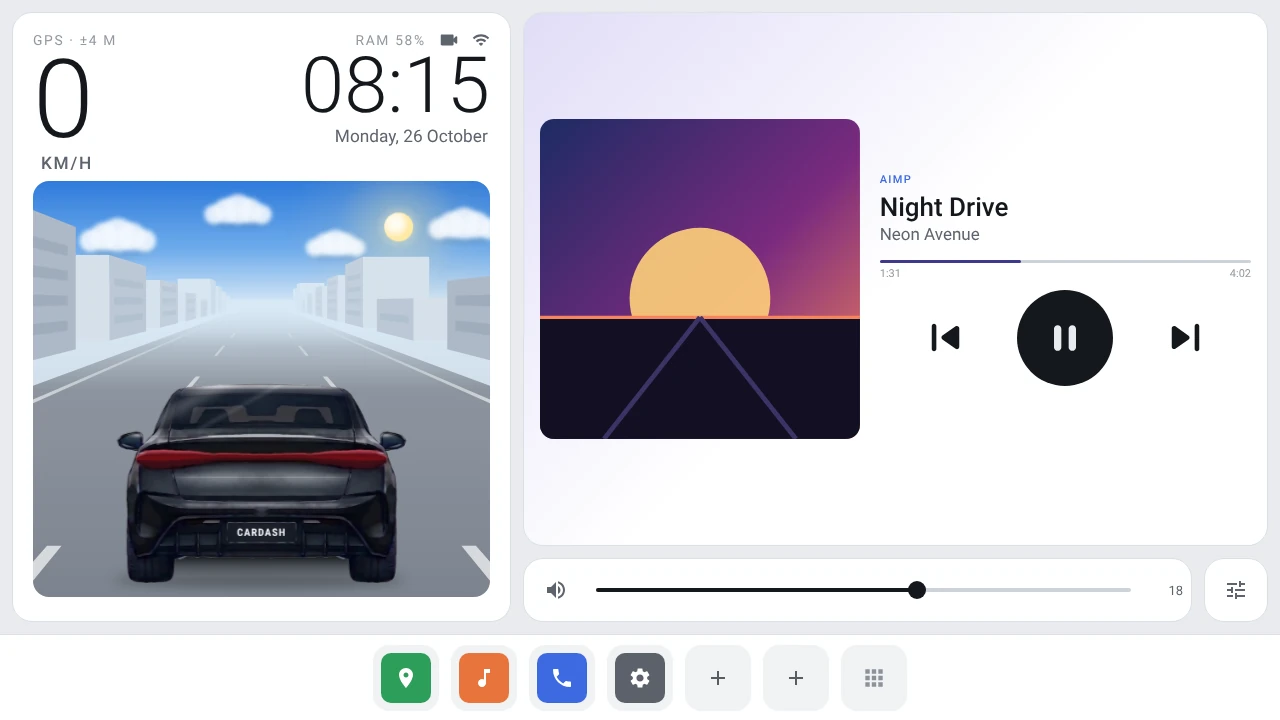
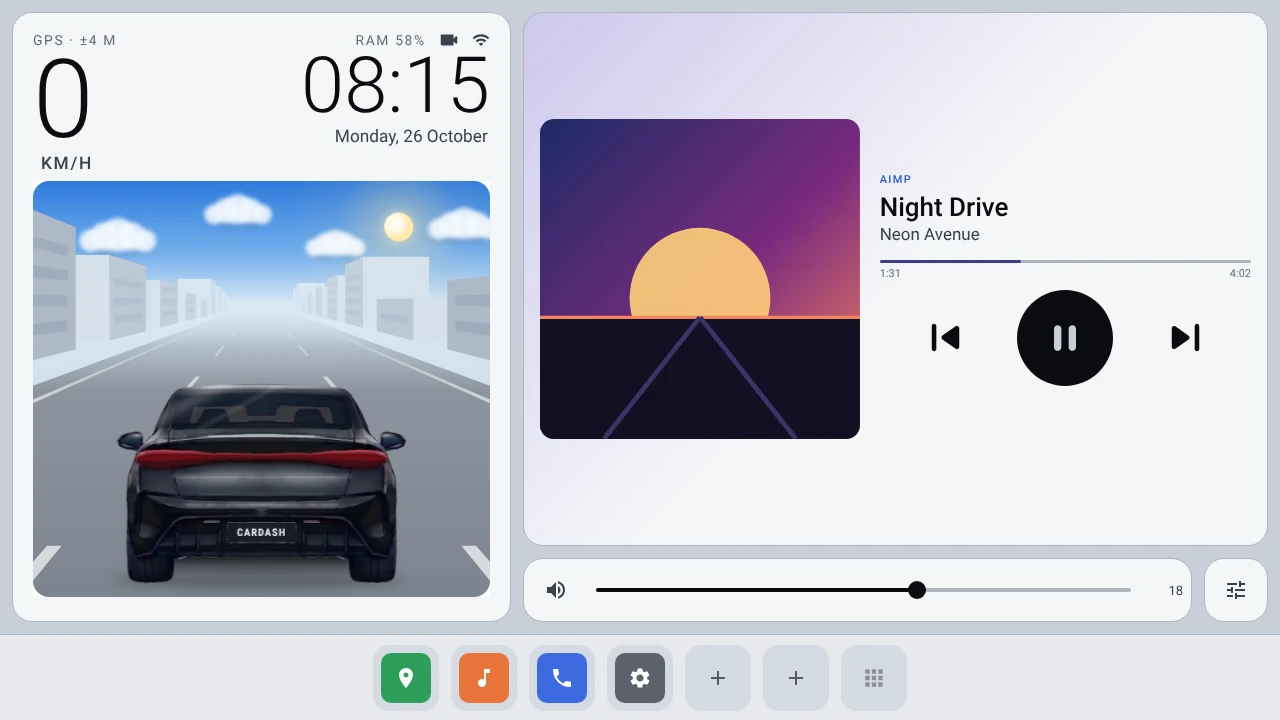
v3.1: higher-contrast themes, Back/Recents in All apps, Close on menus
- Look: dark = true black, lifted cards, visible lines, brighter text/accent;
  light = grey background, off-white cards, darker text, stronger lines,
  deeper accent. Screensaver ticks/date slightly brighter. Docs screenshots
  re-rendered.
- Dock: Back + Recent apps hidden on the dashboard (space kept, nothing
  shifts); All apps now ends above the dock, the keys fade in and the grid key
  becomes a close key. Dock launches and the moon key close All apps.
- List menus get a Close button (head units without a system Back key).

Claude-Session: https://claude.ai/code/session_017nPdq64s7p8MsRNM6c6iGM

Changed region(s): [[0.0, 0.0, 1.0, 1.0], [0.6875, 0.3056, 0.75, 0.3361], [0.8125, 0.4583, 0.8438, 0.4889]]

diff --git a/app/src/main/java/xyz/ox1de/cardash/MainActivity.java b/app/src/main/java/xyz/ox1de/cardash/MainActivity.java
@@ -512,7 +512,7 @@ public class MainActivity extends Activity {
         }
         if (mainView.getPaddingTop() != t || mainView.getPaddingBottom() != b || mainView.getPaddingLeft() != l || mainView.getPaddingRight() != r) {
             mainView.setPadding(l, t, r, b);
-            drawer.setPadding(l, t, r, b);
+            drawer.setPadding(l, t, r, 0);   // it ends above the dock, which already clears the nav bar
         }
     }
 
@@ -1399,7 +1399,7 @@ public class MainActivity extends Activity {
         sp.edit().putString("mru", TextUtils.join(",", l)).apply();
     }
 
-    /** Back on the home screen: close the drawer, else go back to the app you were last in. */
+    /** Back (on the dock while All apps is open): close it, back to the dashboard. */
     void navBack() {
         if (drawerOpen) { hideDrawer(); return; }
         java.util.List<String> r = recents();
@@ -1588,11 +1588,16 @@ public class MainActivity extends Activity {
 
     void showDrawer() {
         if (!appsLoaded) loadApps(null);
+        // the drawer stops above the dock: the dock (Back, Recent apps, close) stays on screen
+        FrameLayout.LayoutParams dl = (FrameLayout.LayoutParams) drawer.getLayoutParams();
+        int below = dock.getHeight() + mainView.getPaddingBottom();
+        if (dl.bottomMargin != below) { dl.bottomMargin = below; drawer.setLayoutParams(dl); }
         drawerOpen = true;
+        dockForDrawer(true);
         drawer.animate().cancel();
         drawer.setAlpha(0f);
-        drawer.setScaleX(1.04f);
-        drawer.setScaleY(1.04f);
+        drawer.setScaleX(1.02f);
+        drawer.setScaleY(1.02f);
         drawer.setVisibility(View.VISIBLE);
         drive.setActive(false); // hidden behind the drawer: don't animate it
         // settles in from slightly zoomed: one GPU layer, composited, nothing re-drawn per frame
@@ -1603,6 +1608,7 @@ public class MainActivity extends Activity {
     void hideDrawer() {
         if (!drawerOpen) return;
         drawerOpen = false;
+        dockForDrawer(false);
         drawer.animate().cancel();
         drive.setActive(resumed && !saverOn);
         if (resumed) {
@@ -1686,6 +1692,25 @@ public class MainActivity extends Activity {
     }
 
     int dockBtn;   // button size for the current dock width
+    View keyBack, keyRecents;
+    ImageButton allBtn;
+
+    /** All apps open: Back + Recent apps fade in on the dock and the apps key becomes a close key. */
+    void dockForDrawer(boolean open) {
+        if (allBtn != null) allBtn.setImageResource(open ? R.drawable.ic_close : R.drawable.ic_apps);
+        for (View k : new View[]{keyBack, keyRecents}) {
+            if (k == null) continue;
+            k.animate().cancel();
+            if (open) {
+                k.setVisibility(View.VISIBLE);
+                k.setAlpha(0f);
+                k.animate().alpha(1f).setStartDelay(60).setDuration(180).setInterpolator(Anim.OUT).withLayer().start();
+            } else {
+                k.animate().alpha(0f).setStartDelay(0).setDuration(120).withLayer()
+                        .withEndAction(() -> { if (!drawerOpen) k.setVisibility(View.INVISIBLE); }).start();
+            }
+        }
+    }
 
     void buildDock() {
         ensureDockDefaults();
@@ -1695,8 +1720,14 @@ public class MainActivity extends Activity {
         int avail = (dock.getWidth() > 0 ? dock.getWidth() : getResources().getDisplayMetrics().widthPixels)
                 - dock.getPaddingLeft() - dock.getPaddingRight() - dp(24);
         dockBtn = Math.max(dp(44), Math.min(dp(66), avail / (SLOTS + 5) - dp(14)));
-        dock.addView(sysKey(R.drawable.ic_nav_back, "Back to the last app", v -> navBack(), v -> { showKeysPanel(); return true; }));
-        dock.addView(sysKey(R.drawable.ic_nav_recents, "Recent apps", v -> showRecents(), null));
+        // Back + Recent apps: shown only while All apps is open (the dock stays visible under it);
+        // on the dashboard they keep their space but are hidden, so nothing shifts when they appear
+        keyBack = sysKey(R.drawable.ic_nav_back, "Back", v -> navBack(), v -> { showKeysPanel(); return true; });
+        keyRecents = sysKey(R.drawable.ic_nav_recents, "Recent apps", v -> showRecents(), null);
+        for (View k : new View[]{keyBack, keyRecents}) {
+            k.setVisibility(drawerOpen ? View.VISIBLE : View.INVISIBLE);
+            dock.addView(k);
+        }
         dock.addView(dockGap());
         for (int i = 0; i < SLOTS; i++) {
             final int slot = i;
@@ -1712,19 +1743,21 @@ public class MainActivity extends Activity {
             }
             b.setOnClickListener(v -> {
                 if (pkg == null || (appsLoaded && !byPkg.containsKey(pkg))) pickDock(slot);
-                else launch(pkg);
+                else { if (drawerOpen) hideDrawer(); launch(pkg); }
             });
             b.setOnLongClickListener(v -> { pickDock(slot); return true; });
             dock.addView(b);
         }
         ImageButton all = dockButton();
-        all.setImageResource(R.drawable.ic_apps);
+        all.setImageResource(drawerOpen ? R.drawable.ic_close : R.drawable.ic_apps);
         all.setColorFilter(look.text2);
         all.setPadding(dp(19), dp(19), dp(19), dp(19));
-        all.setOnClickListener(v -> showDrawer());
+        all.setContentDescription("All apps");
+        all.setOnClickListener(v -> { if (drawerOpen) hideDrawer(); else showDrawer(); });
+        allBtn = all;
         dock.addView(all);
         dock.addView(dockGap());
-        dock.addView(sysKey(R.drawable.ic_moon, "Screensaver now", v -> showSaver(), null));
+        dock.addView(sysKey(R.drawable.ic_moon, "Screensaver now", v -> { if (drawerOpen) hideDrawer(); showSaver(); }, null));
         dock.addView(sysKey(R.drawable.ic_more, "Shortcuts: notifications, quick settings, screenshot…", v -> showKeysPanel(), null));
     }
 
@@ -1888,6 +1921,7 @@ public class MainActivity extends Activity {
         new AlertDialog.Builder(this, dlg())
                 .setTitle("CarDash")
                 .setItems(labels.toArray(new String[0]), (d, w) -> acts.get(w).run())
+                .setNegativeButton("Close", null)
                 .show();
     }
 
@@ -2039,6 +2073,7 @@ public class MainActivity extends Activity {
         new AlertDialog.Builder(this, dlg())
                 .setTitle("Badge on the back of the car  ·  shows in the \"behind the car\" view")
                 .setItems(labels.toArray(new String[0]), (d, w) -> acts.get(w).run())
+                .setNegativeButton("Close", null)
                 .show();
     }
 
@@ -2802,6 +2837,7 @@ public class MainActivity extends Activity {
         new AlertDialog.Builder(this, dlg())
                 .setTitle("Rear camera (wired to the head unit)")
                 .setItems(labels.toArray(new String[0]), (d, w) -> acts.get(w).run())
+                .setNegativeButton("Close", null)
                 .show();
     }
 
@@ -2845,6 +2881,7 @@ public class MainActivity extends Activity {
         new AlertDialog.Builder(this, dlg())
                 .setTitle("Dash cam  ·  DDPAI front + head unit rear")
                 .setItems(labels.toArray(new String[0]), (d, w) -> acts.get(w).run())
+                .setNegativeButton("Close", null)
                 .show();
     }
 
@@ -3136,6 +3173,7 @@ public class MainActivity extends Activity {
         new AlertDialog.Builder(this, dlg())
                 .setTitle("RAM  ·  " + mb(m.availMem) + " free of " + mb(m.totalMem))
                 .setItems(labels.toArray(new String[0]), (d, w) -> acts.get(w).run())
+                .setNegativeButton("Close", null)
                 .show();
     }
 
@@ -3280,6 +3318,7 @@ public class MainActivity extends Activity {
         new AlertDialog.Builder(this, dlg())
                 .setTitle("Music card")
                 .setItems(items, (d, w) -> { if (w == 0) forgetWidget(); else pickWidget(); })
+                .setNegativeButton("Close", null)
                 .show();
     }
 
@@ -3294,6 +3333,7 @@ public class MainActivity extends Activity {
         new AlertDialog.Builder(this, dlg())
                 .setTitle("Music card  ·  " + musicCardLabel())
                 .setItems(labels.toArray(new String[0]), (d, w) -> acts.get(w).run())
+                .setNegativeButton("Close", null)
                 .show();
     }
 
@@ -3639,6 +3679,7 @@ public class MainActivity extends Activity {
                 "Show it now"};
         new AlertDialog.Builder(this, dlg())
                 .setTitle("Greeting  ·  Welcome after start-up, then good morning / afternoon / evening until you drive off")
+                .setNegativeButton("Close", null)
                 .setItems(items, (d, w) -> {
                     if (w == 0) editGreetName();
                     else if (w == 1) {
@@ -3917,6 +3958,7 @@ public class MainActivity extends Activity {
                 "All releases on GitHub"};
         new AlertDialog.Builder(this, dlg())
                 .setTitle("CarDash v" + updater.installedName() + "  ·  updates from GitHub")
+                .setNegativeButton("Close", null)
                 .setItems(items, (d, w) -> {
                     switch (w) {
                         case 0: checkUpdatesNow(); break;

diff --git a/app/src/main/java/xyz/ox1de/cardash/Look.java b/app/src/main/java/xyz/ox1de/cardash/Look.java
@@ -19,20 +19,24 @@ final class Look {
 
     private Look(boolean l) {
         light = l;
+        // Tuned for cheap head-unit LCDs, which flatten contrast: true black behind clearly lifted cards
+        // and bright text at night; by day a grey background with off-white cards (pure white blooms and
+        // washes out), darker text and visible outlines.
         if (!l) {
-            bg = 0xFF07080A; card = 0xFF131519; cardHi = 0xFF1B1E23; line = 0xFF23262C;
-            text = 0xFFF2F3F5; text2 = 0xFF8B919A; text3 = 0xFF565B63;
-            dock = 0xFF0E0F12; slot = 0xFF16181C; ripple = 0x33FFFFFF; drawer = 0xF507080A;
+            bg = 0xFF000000; card = 0xFF181B21; cardHi = 0xFF23272E; line = 0xFF343A43;
+            text = 0xFFFFFFFF; text2 = 0xFFAAB1BB; text3 = 0xFF747B86;
+            dock = 0xFF0B0C0F; slot = 0xFF1E2127; ripple = 0x40FFFFFF; drawer = 0xF7000000;
             alert = 0xFFFF5A5F; carAuto = 0xFFF4F5F7;   // white car on dark
-            track = 0xFF30343B;                          // slider/progress rail: visible on a car screen in sunlight
+            track = 0xFF3D434C;                          // slider/progress rail: visible on a car screen in sunlight
+            accent = 0xFF4F82FF;                         // a brighter blue reads better on black
         } else {
-            bg = 0xFFE9ECEF; card = 0xFFFFFFFF; cardHi = 0xFFF1F3F5; line = 0xFFDCE0E5;
-            text = 0xFF15181D; text2 = 0xFF5D646E; text3 = 0xFF9298A1;
-            dock = 0xFFFFFFFF; slot = 0xFFF0F2F4; ripple = 0x1F000000; drawer = 0xF5E9ECEF;
-            alert = 0xFFE0353C; carAuto = 0xFF393D44;   // black car on light (charcoal so the glass stays readable)
-            track = 0xFFCDD2D9;
+            bg = 0xFFC9CFD7; card = 0xFFF4F6F8; cardHi = 0xFFE3E7EC; line = 0xFFAEB6C1;
+            text = 0xFF0A0C0F; text2 = 0xFF3A414B; text3 = 0xFF626A75;
+            dock = 0xFFE6E9ED; slot = 0xFFD5DAE1; ripple = 0x26000000; drawer = 0xF5C9CFD7;
+            alert = 0xFFD62C33; carAuto = 0xFF393D44;   // black car on light (charcoal so the glass stays readable)
+            track = 0xFFAEB6C1;
+            accent = 0xFF2C58D6;                         // a deeper blue holds its own on grey
         }
-        accent = 0xFF3E6AE1;
     }
 
     ColorStateList csl(int c) { return ColorStateList.valueOf(c); }

diff --git a/app/src/main/java/xyz/ox1de/cardash/ClockView.java b/app/src/main/java/xyz/ox1de/cardash/ClockView.java
@@ -32,7 +32,7 @@ import java.util.Locale;
  */
 public class ClockView extends View {
 
-    static final int BG = 0xFF000000, DIM = 0xFF1C2026, ACC1 = 0xFF3E6AE1, ACC2 = 0xFF4FD1FF;
+    static final int BG = 0xFF000000, DIM = 0xFF262B33, ACC1 = 0xFF4F82FF, ACC2 = 0xFF4FD1FF;
     static final long ROLL_MS = 1500, LOCK_AT = 1650, INTRO_MS = 2700;
 
     final Paint tick = new Paint(Paint.ANTI_ALIAS_FLAG);
@@ -91,7 +91,7 @@ public class ClockView extends View {
         time.setColor(0xFFF2F3F5);
         time.setTextAlign(Paint.Align.CENTER);
         small.setTypeface(Typeface.create("sans-serif-medium", Typeface.NORMAL));
-        small.setColor(0xFF8B919A);
+        small.setColor(0xFF9CA3AD);
         small.setTextAlign(Paint.Align.CENTER);
         small.setLetterSpacing(0.22f);
         sub.setColor(0xFFC9CDD3);

diff --git a/README.md b/README.md
@@ -212,7 +212,9 @@ updates itself, so there is nothing to copy over by USB after the first install.
 <details>
 <summary><b>Theme, sky and screensaver</b></summary>
 
-- **Auto day / night theme**: light 5 am – 6 pm, dark 6 pm – 5 am. An optional *real sunrise /
+- **Auto day / night theme**: light 5 am – 6 pm, dark 6 pm – 5 am. Both are tuned for head-unit LCDs,
+  which flatten contrast: the dark theme is true black with clearly lifted cards and bright text; the
+  light theme is grey with off-white cards (pure white blooms and washes out) and darker text. An optional *real sunrise /
   sunset* mode computes today's times offline from where GPS last saw the car. Or force always dark
   or always light. Switching swaps colours in place.
 - **Sky** (chase cam): blue sky, sun and drifting clouds by day; a crescent moon, twinkling stars,
@@ -260,9 +262,10 @@ updates itself, so there is nothing to copy over by USB after the first install.
   buttons.
 - **Dock**: 6 app slots plus an all-apps grid. Tap an empty slot to fill it, long-press any slot to
   change it. Defaults are detected automatically: maps, music player, phone / Bluetooth, settings.
-  - **Left: Back and Recent apps.** Back closes the app drawer, or takes you back to the app you
-    were last in. Recent apps opens Android's recent apps (with *CarDash buttons* on), or else
-    CarDash's own list of the apps you opened from it.
+  - **All apps**: the grid key opens every app; the dock **stays on screen** underneath it, and
+    **Back** and **Recent apps** appear on its left (the grid key turns into a close key). Back
+    takes you back to the dashboard; Recent apps opens Android's recent apps (with *CarDash
+    buttons* on), or else CarDash's own list of the apps you opened from it.
   - **Right: Screensaver now (moon) and Shortcuts (⋯).** Shortcuts opens a panel of big tiles:
     Notifications, Quick settings, Recent apps, Screenshot, Screensaver, Volume, Wi-Fi, Bluetooth,
     Screen off, Power menu, Android settings, CarDash settings.

diff --git a/CHANGELOG.md b/CHANGELOG.md
@@ -3,6 +3,19 @@
 All notable changes to CarDash. Versions follow `MAJOR.MINOR[.PATCH]`; pre-releases are tagged
 `vX.Y-betaN`. Each `## vX.Y` section below becomes the notes of the matching GitHub release.
 
+## v3.1 — 2026-10-27
+
+### Changed
+- **Colours that hold up on head-unit screens.** Dark theme: true black background, cards lifted
+  clearly off it, visible outlines, brighter text and a brighter blue. Light theme: a grey
+  background with off-white cards instead of pure white (which blooms and washes out), darker text,
+  stronger outlines, a deeper blue. The screensaver's dim ticks and date are a touch brighter too.
+- **Back and Recent apps moved to All apps.** They're no longer on the dashboard. Open All apps and
+  the dock stays on screen underneath it, with Back and Recent apps on its left and the grid key
+  turned into a close key. Launching from the dock or starting the screensaver closes All apps.
+- Menus that are just lists (Settings, Updates, Greeting, Music card, Rear badge, Dash cam, RAM
+  optimiser) have a **Close** button, for head units without a system Back key.
+
 ## v3.0 — 2026-10-27
 
 ### Added
